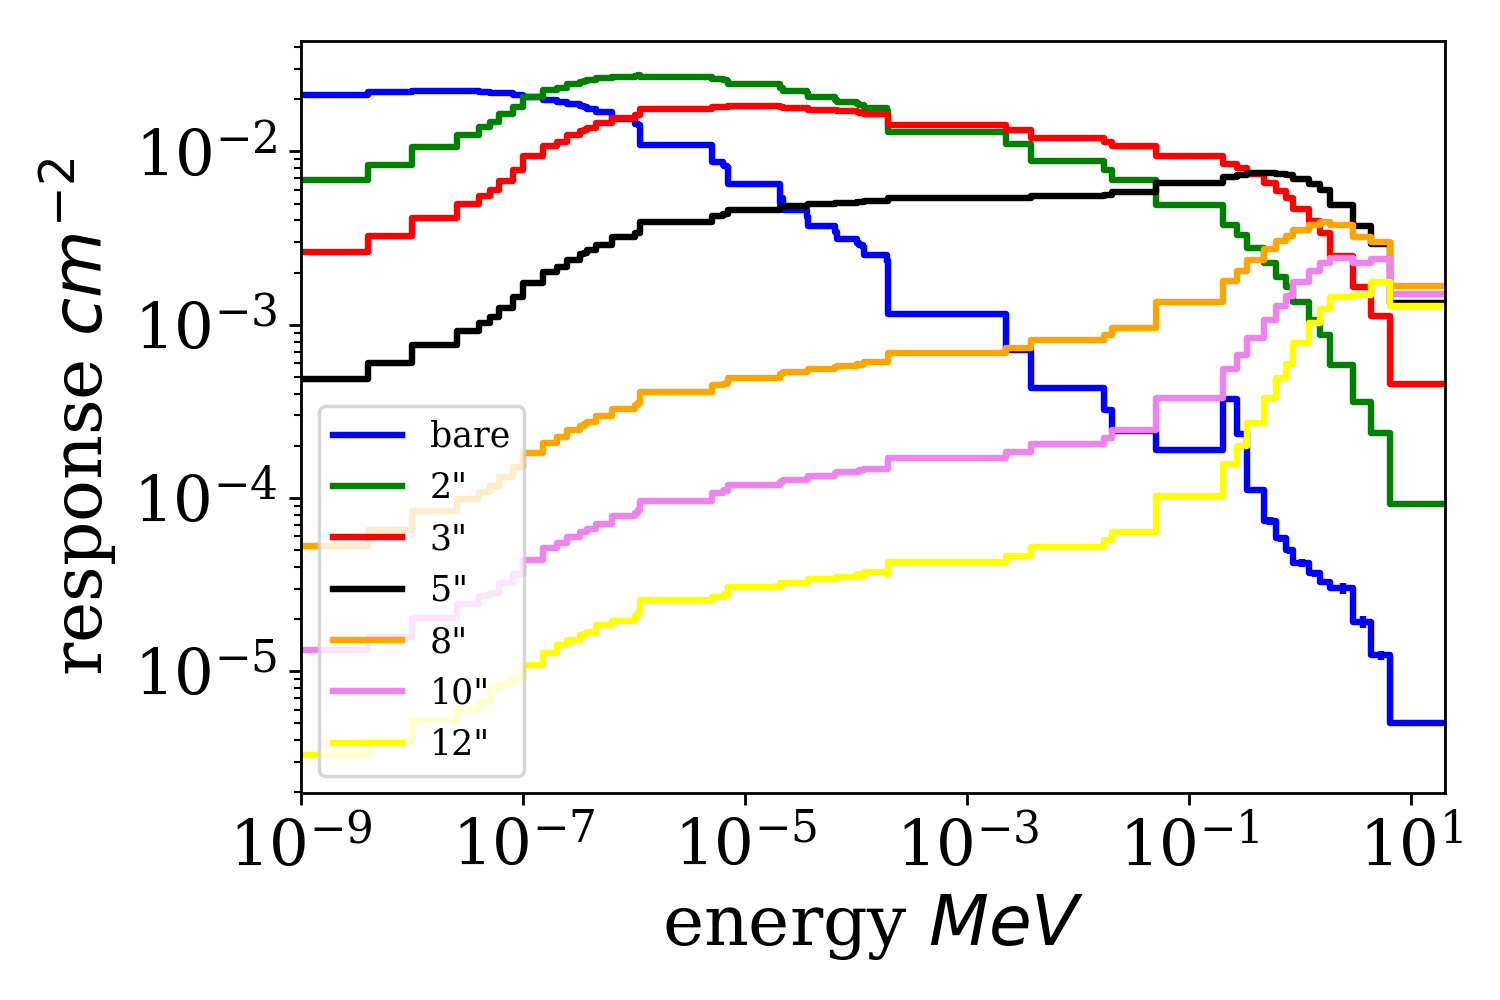
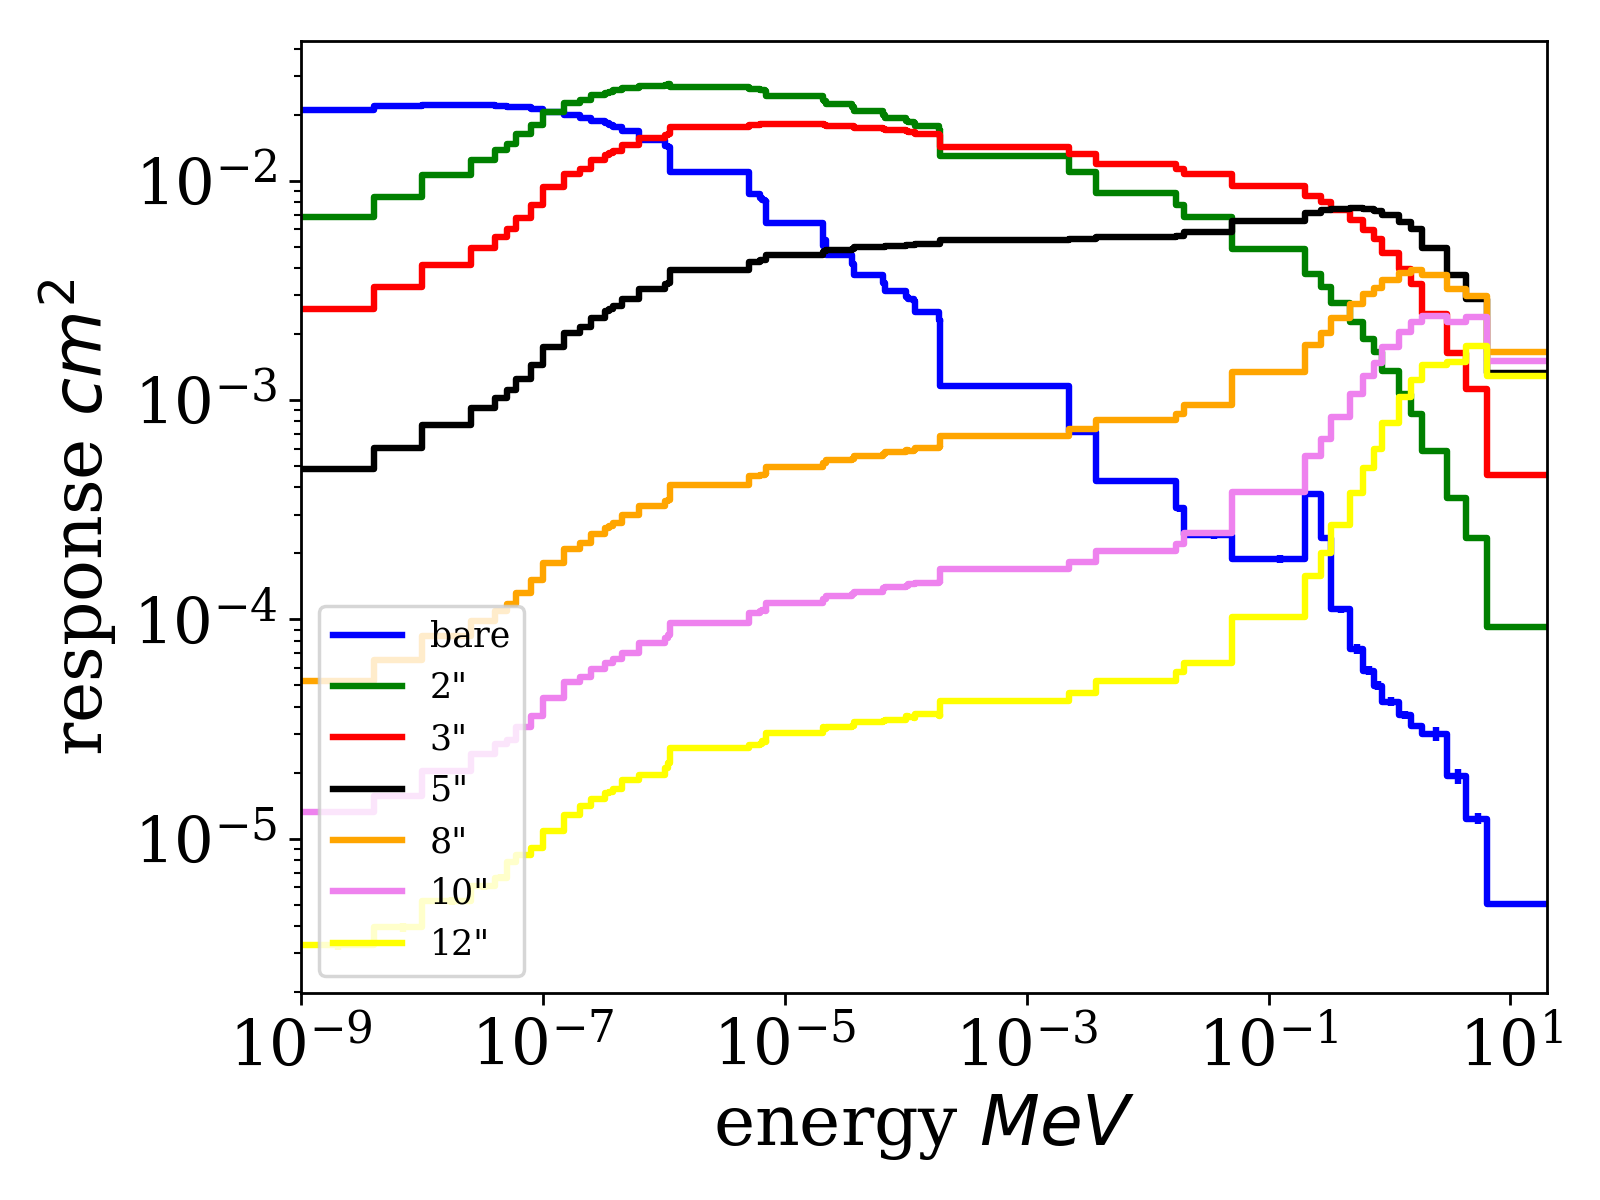
produced many more plots

diff --git a/nebp_folding/folding_experiment.py b/nebp_folding/folding_experiment.py
@@ -16,6 +16,7 @@ class Folding_Experiment(object):
         self.plot_theoretical()
         self.plot_unscaled()
         self.plot_scaled()
+        self.plot_diffs()
         if False:
             print(self.experimental_responses)
             print(self.typical_response)
@@ -88,7 +89,7 @@ class Folding_Experiment(object):
         plt.plot(sizes, self.nebp_response, 'ko', label='theoretical nebp')
         plt.plot(sizes, self.experimental_responses, 'ro', label='experimental (scaled *100)')
         plt.legend()
-        plt.savefig('responses_scaled_exp.png', dpi=250)
+        plt.savefig('responses_unscaled_exp.png', dpi=250)
         plt.close()
 
     def plot_scaled(self):
@@ -102,6 +103,20 @@ class Folding_Experiment(object):
         plt.plot(sizes, self.experimental_responses * 100, 'ro', label='experimental (scaled *100)')
         plt.legend()
         plt.savefig('responses_scaled_exp.png', dpi=250)
+        plt.close()
+
+    def plot_diffs(self):
+        diffs = self.nebp_response - (self.experimental_responses * 100)
+        plt.figure(53)
+        # plt.yscale('log')
+        plt.ylabel('response $s^{-1}$')
+        plt.xlabel('sphere size $in$')
+        sizes = [0.0, 2.0, 3.0, 5.0, 8.0, 10.0, 12.0]
+        plt.plot(sizes, self.nebp_response, 'ko', label='theoretical nebp')
+        plt.plot(sizes, self.experimental_responses * 100, 'ro', label='experimental (scaled *100)')
+        plt.plot(sizes, diffs, 'g^', label='difference')
+        plt.legend()
+        plt.savefig('responses_error.png', dpi=250)
         plt.close()
 
 

diff --git a/nebp_response_functions/plotter.py b/nebp_response_functions/plotter.py
@@ -41,7 +41,7 @@ class Plotter(object):
         plt.yscale('log')
         plt.xlim(1E-9, 20)
         plt.xlabel('energy $MeV$')
-        plt.ylabel('response $cm^{-2}$')
+        plt.ylabel('response $cm^{2}$')
         plt.legend(loc=3)
         plt.savefig('nebp_response_functions.png', dpi=250)
 
